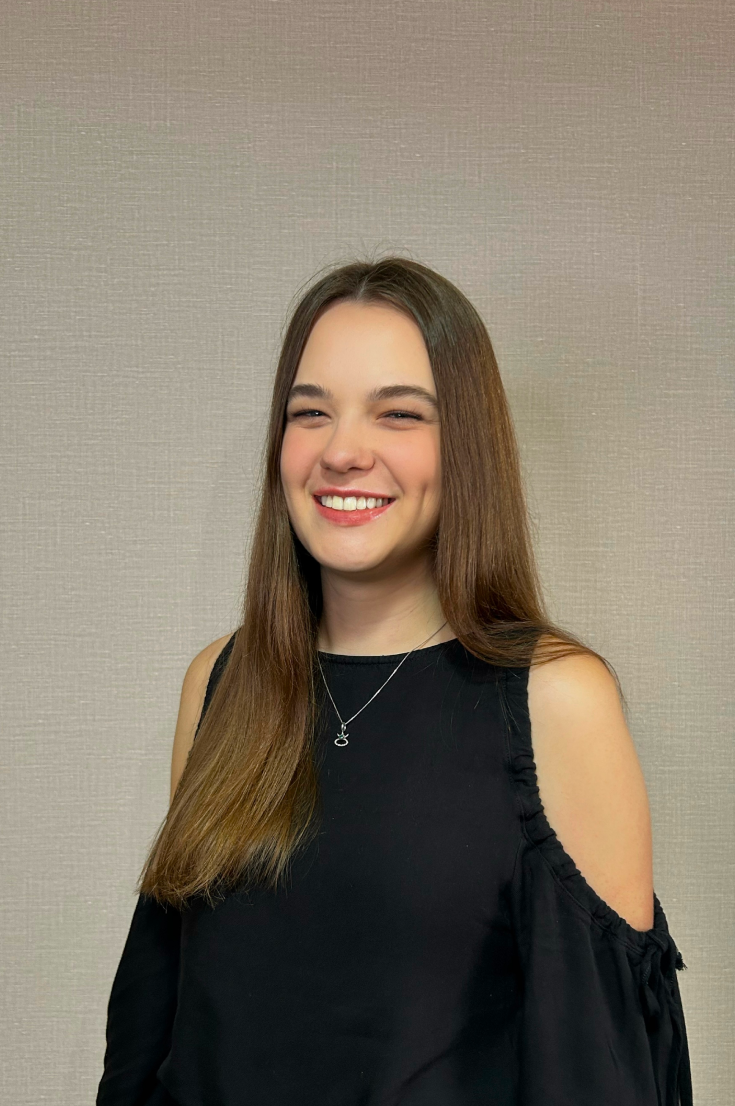
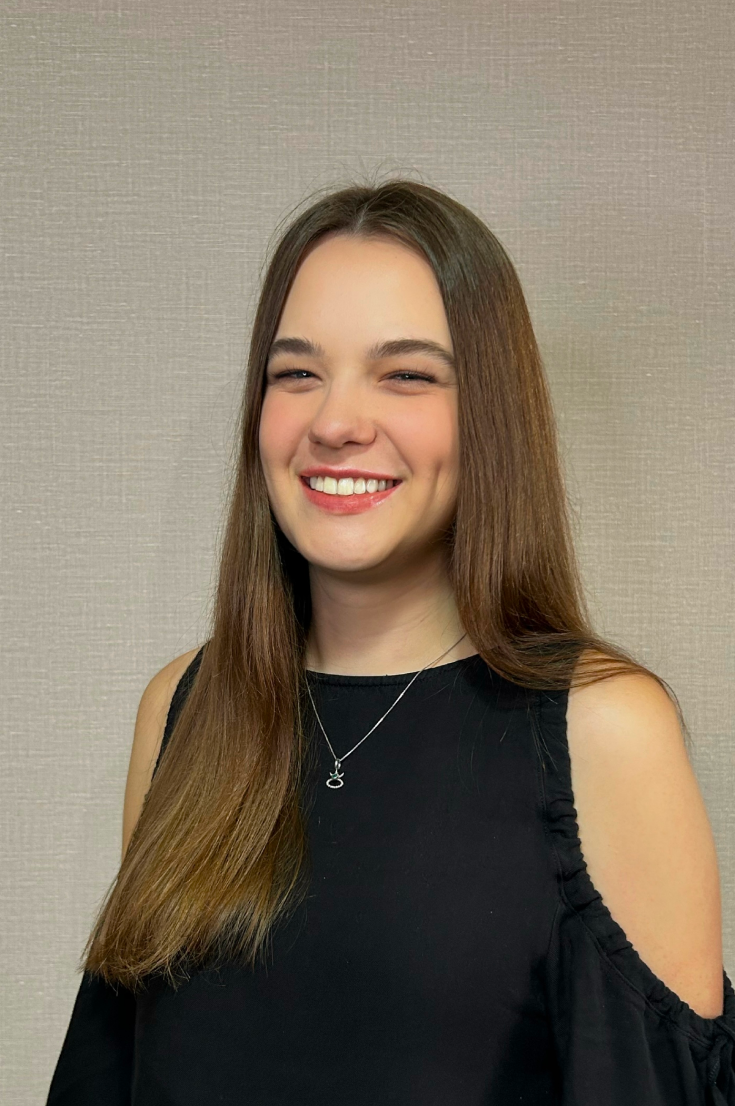
team update

diff --git a/src/content-list/team/portuguese.ts b/src/content-list/team/portuguese.ts
@@ -13,7 +13,7 @@ export const Team_Data_PT = [
             "Atuante na área internacional, Liana tem expertise em Comércio Internacional, Direito Aduaneiro e Imigratório para os EUA, Europa e diversos outros países.",
             "Com sua sólida formação acadêmica e vasta experiência prática, Liana é uma referência respeitada no meio jurídico, proporcionando orientação jurídica confiável e estratégica para seus clientes.",
         ],
-        image: "/team/equipe_placeholder.png",
+        image: "/team/equipe_liana_2025.png",
     },
     {
         name: "Cesar Augusto Taborda Lima",
@@ -82,7 +82,12 @@ export const Team_Data_PT = [
         linkedin: "https://www.linkedin.com/",
         oab: "OAB/PR 123456",
         oabLink: "https://www.oabpr.org.br/",
-        bio: ["", "", ""],
+        bio: [
+            "Graduada em Direito pela Faculdade de Cuiabá - Unic",
+            "Pós-Graduada em Processo Civil  na FACUMINAS",
+            "Pós-Graduanda em Compliance e Gestão de Risco na Faculdade Anhanguera",
+            "Idiomas: Português, Inglês e Espanhol",
+        ],
 
         image: "/team/equipe_juliana_2025.png",
     },
@@ -94,7 +99,12 @@ export const Team_Data_PT = [
         linkedin: "https://www.linkedin.com/",
         oab: "OAB/PR 123456",
         oabLink: "https://www.oabpr.org.br/",
-        bio: ["", "", ""],
+        bio: [
+            "Graduada em Direito pela Universidade Federal do Paraná - UFPR",
+            "Pós-Graduanda em Direito Internacional na Universidade Cruzeiro do Sul",
+            "Certificado sobre  Tribunal Penal Internacional - Harvard Model Congress Latin America 2015",
+            "Idiomas: Português ,Inglês, Francês e Alemão",
+        ],
 
         image: "/team/equipe_luana_2025.png",
     },
@@ -106,7 +116,7 @@ export const Team_Data_PT = [
         linkedin: "https://www.linkedin.com/",
         oab: "OAB/PR 123456",
         oabLink: "https://www.oabpr.org.br/",
-        bio: ["", "", ""],
+        bio: ["Graduando em Direito pela Universidade Federal do Paraná -UFPR", "Idiomas: Português, Inglês, Espanhol e Italiano"],
 
         image: "/team/equipe_carlos_2025.png",
     },
@@ -130,7 +140,7 @@ export const Team_Data_PT = [
         linkedin: "https://www.linkedin.com/",
         oab: "OAB/PR 123456",
         oabLink: "https://www.oabpr.org.br/",
-        bio: ["", "", ""],
+        bio: ["Graduanda em Administração pela Universidade Federal do Paraná -UFPR", "Idiomas:  Português e Inglês"],
 
         image: "/team/equipe_giovana_2025.png",
     },
@@ -142,7 +152,7 @@ export const Team_Data_PT = [
         linkedin: "https://www.linkedin.com/",
         oab: "OAB/PR 123456",
         oabLink: "https://www.oabpr.org.br/",
-        bio: ["", "", ""],
+        bio: ["Graduanda em Direito pela Faculdade de Administração e Economia - FAE", "Idiomas: Português, Inglês,  Espanhol  e Alemão"],
 
         image: "/team/equipe_ester_2025.png",
     },

diff --git a/src/content-list/team/spanish.ts b/src/content-list/team/spanish.ts
@@ -13,7 +13,7 @@ export const Team_Data_ES = [
             "Actuando en el área internacional, Liana tiene experiencia en Comercio Internacional, Derecho Aduanero e Inmigración para EE.UU., Europa y varios otros países.",
             "Con su sólida formación académica y vasta experiencia práctica, Liana es una referencia respetada en el ámbito jurídico, proporcionando asesoría jurídica confiable y estratégica a sus clientes.",
         ],
-        image: "/team/equipe_placeholder.png",
+        image: "/team/equipe_liana_2025.png",
     },
     {
         name: "Cesar Augusto Taborda Lima",

diff --git a/src/content-list/team/english.ts b/src/content-list/team/english.ts
@@ -13,7 +13,7 @@ export const Team_Data_EN = [
             "Active in the international area, Liana has expertise in International Trade, Customs Law, and Immigration Law for the U.S., Europe, and various other countries.",
             "With her solid academic background and extensive practical experience, Liana is a respected reference in the legal field, providing reliable and strategic legal guidance to her clients.",
         ],
-        image: "/team/equipe_placeholder.png",
+        image: "/team/equipe_liana_2025.png",
     },
     {
         name: "Cesar Augusto Taborda Lima",
